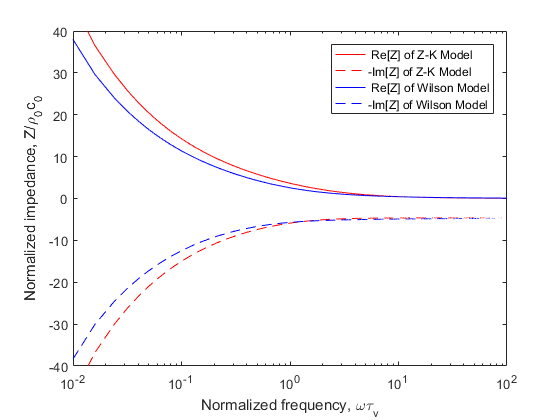
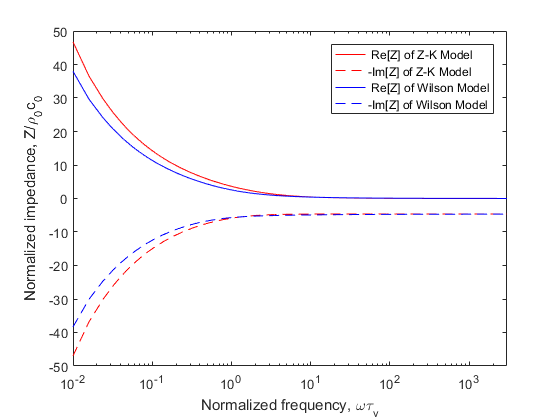
Sources update 2019-02-26

diff --git a/source/_posts/a-time-domain-finite-volume-method-approach-for-the-simulation-of-sound-propagation-in-porous-half-space-medium.md b/source/_posts/a-time-domain-finite-volume-method-approach-for-the-simulation-of-sound-propagation-in-porous-half-space-medium.md
@@ -8,9 +8,9 @@ A time-domain finite volume method solver was developed for the simulation of wa
 
 # Introduction
 
-Sound propagation in porous medium is an enduring topics in the file of the acoustic control due to it's cheap and efficiency. They are used in a variety of locations - close to source of noise, in various paths, and sometimes close to receivers.<sup>1</sup> Unlike frequency-domain acoustic simulation which was widely used today, time-domain simulation can provides much more information that help one understand the propagation process of a sound pulse. During the last two decades, the time-domain simulation of the porous media has been a reborn interest with the development of applications like medical imaging or sound crystals require the study of the sound propagation in the porous medium.<sup>2-8</sup> 
+Sound propagation in porous medium is an enduring topics in the file of the acoustic control due to it's cheap and efficiency. They are used in a variety of locations - close to source of noise, in various paths, and sometimes close to receivers.<sup>1</sup> Unlike frequency-domain acoustic simulation which was widely used today, time-domain simulation can provides much more information that help one understand the propagation process of a sound pulse. During the last two decades, the time-domain simulation of the porous media has been a reborn interest with the development of applications like medical imaging or sound crystals require the study of the sound propagation in the porous medium.<sup>2-9</sup> 
 
-Serial time-domain numerical techniques have been developed to study sound propagation in porous medium, Most of them use finite-difference time-domain (FDTD) algorithms.<sup>9-12</sup> But there is one shortcoming that cannot be ignored that FDTD need additional process - such as immersed-boundary (IB) method - to adapt to the simulation of objects with complicated geometry.The finite volume method is widely used in fluid dynamics due to it's strictly  conservative and can be formulated on unstructured meshes.<sup>13</sup> Xuan et al. has developed an acoustic propagation simulator by time-domain finite volume method.<sup>14</sup> In this paper, we extend the algorithm to calculate acoustic propagation in porous medium using the Z-K model.
+Serial time-domain numerical techniques have been developed to study sound propagation in porous medium, Most of them use finite-difference time-domain (FDTD) algorithms.<sup>10-13</sup> But there is one shortcoming that cannot be ignored that FDTD need additional process - such as immersed-boundary (IB) method - to adapt to the simulation of objects with complicated geometry.The finite volume method is widely used in fluid dynamics due to it's strictly  conservative and can be formulated on unstructured meshes.<sup>14</sup> Xuan et al. has developed an acoustic propagation simulator by time-domain finite volume method.<sup>15</sup> In this paper, we extend the algorithm to calculate acoustic propagation in porous medium using the Z-K model.
 
 The paper is organised as follows: Section 2 presents the equations and limitations of  Z-K model in time-domain. The detail schemes of the discretization of equations are described in Section 3. Example calculations and comparison are provided in Section 4. A triangle porous barrier and two sonic crystals are used to test the numerical methods.
 
@@ -21,19 +21,23 @@ The linearized Euler equations are employed for sound propagation in the air med
 Outside the porous medium:
 
 $$
+\begin{array}{lcl}
 \rho{}_0\frac{\partial{}\bm{v}}{\partial{}t}=-\nabla{}p \\
 c_0^2\frac{\partial{}p}{\partial{}t}=-\rho{}_0\nabla{}\cdot{}\bm{v}
+\end{array}
 \tag{1}
 $$
 
-Inside the porous medium:<sup>10</sup>
+Inside the porous medium:<sup>11</sup>
 $$
+\begin{array}{lcl}
 \sigma{}\bm{v}+\frac{k_s\rho{}_0}{\phi{}}\frac{\partial{}\bm{v}}{\partial{}t}=-\nabla{}p \\
 \frac{\phi}{p_0}\frac{\partial{}p}{\partial{}t}=-\nabla{}\cdot{}\bm{v}
+\end{array}
 \tag{2}
 $$
 
-It is well known that the Wilson Model fits well with the empirical parameters of the porous medium acoustic characters. Figs.1-2 compare predictions from the Z-K and Wilson Models for the impedance $Z$ and the phase speed $c=\omega{}Re[\Gamma]$ when low frequency approximate values were used for the parameters of Z-K Model. The results are plotted as a function of the normalized frequency $\omega{}\tau_v$. More details on how the comparisons between the Wilson Model and Z-K Model were made can be found in Ref.10. The parameter values chosen for these comparisons are $\sigma=2000$, $\phi=0.3$, $k_s=1.95$, $c_0=340$, $\rho=1.226$, $N_{Pr}=1, $ and $s_B=1$.
+It is well known that the Wilson Model fits well with the empirical parameters of the porous medium acoustic characters. Figs.1-2 compare predictions from the Z-K and Wilson Models for the impedance $Z$ and the phase speed $c=\omega{}Re[\Gamma]$ when low frequency approximate values were used for the parameters of Z-K Model. The results are plotted as a function of the normalized frequency $\omega{}\tau_v$. More details on how the comparisons between the Wilson Model and Z-K Model were made can be found in Ref.11. The parameter values chosen for these comparisons are $\sigma=2000$, $\phi=0.3$, $k_s=3$, $c_0=340$, $\rho=1.226$, $N_{Pr}=1$, and $s_B=1$.
 
 ![ComparisonNormalizedImpedance](/imgs/ComparisonNormalizedImpedance_L.png)
 
@@ -43,7 +47,7 @@ Fig.1. Normalized impedance prediction from the Z-K Model (low frequency) and Wi
 
 Fig.2. Phase speed predictions from the Z-K Model (low frequency) and Wilson Model. Plotted is the phase speed divided by the phase speed in air, $c_0$.
 
-The impedance of two models are nearly identical, but the phase speed of Z-K Model is too low and separate dramatically with the increase of frequency. If we apply high frequency approximate values of Z-K Model, The continuity equation in Eqs.$(2)$ will be rewritten as
+The impedance of two models are nearly identical, but the phase speed of Z-K Model is too low and separate dramatically with the increase of frequency. If we apply high frequency approximate values of Z-K Model, The continuity equation in $Eqs. 2$ will be rewritten as
 $$
 \frac{\phi}{p_0\gamma}\frac{\partial{}p}{\partial{}t}=-\nabla{}\cdot{}\bm{v}
 \tag{3}
@@ -52,19 +56,71 @@ where $\gamma$ is the ratio of specific heats in air. The impedance and the p
 
 ![ComparisonNormalizedImpedance_H](/imgs/ComparisonNormalizedImpedance_H.png)
 
-Fig.1. Normalized impedance prediction from the Z-K Model (low frequency) and Wilson Model. The negative of the imaginary part is plotted. Calculations are shown as a function of the normalized frequency $\omega{}\tau_v$, where $\tau_v$ is the relaxation time for viscous diffusion in the pores.
+Fig.3. Normalized impedance prediction from the Z-K Model (high frequency) and Wilson Model. The negative of the imaginary part is plotted. Calculations are shown as a function of the normalized frequency $\omega{}\tau_v$, where $\tau_v$ is the relaxation time for viscous diffusion in the pores.
 
 ![ComparisonNormalizedPhaseSpeed_H](/imgs/ComparisonNormalizedPhaseSpeed_H.png)
 
-Fig.2. Phase speed predictions from the Z-K Model (low frequency) and Wilson Model. Plotted is the phase speed divided by the phase speed in air, $c_0$.
+Fig.4. Phase speed predictions from the Z-K Model (high frequency) and Wilson Model. Plotted is the phase speed divided by the phase speed in air, $c_0$.
 
-The impedance of the Z-K Model becomes incorrect when $\omega{}\tau_v\ll1$, but the phase speed fit better with the Wilson Model. 
+The impedance of the Z-K Model becomes incorrect when $\omega{}\tau_v\ll1$, but the phase speed fit better with the Wilson Model. Fig.2 and 4 shows that the phase speed becomes independent of frequency for large $\omega{}\tau_v$, whereas it should actually increase as $\omega^{1/2}$. 
 
 # Numerical schemes
 
+In this section, we consider time-domain numerical implementation of the relaxation model. For the efficiency of calculation，consider simplify the control equation further：Differentiating the continuity equation in $Eqs. 2$ by time, grading the movement equation then one can derive that
+$$
+\begin{cases}
+a\frac{\partial^2p}{\partial{}t^2}+b\frac{\partial{}p}{\partial{}t}=\nabla{}^2p \\
+a=\frac{k_s\rho_0}{\gamma{}p_0},b=\frac{\sigma{}\phi}{p_0}
+\end{cases}
+\tag{4}
+$$
+That is a single variable control equation which means that one need not consider variable coupling and can improve the efficiency of calculate dramatically. There is a high order spatial term $\nabla^2p$ in the control equation. The program use the idea of shape function to solve it (more detail will given later). We apply Vertical-Centered Finite Volume Method (VC-FVM) to discrete $Eq. 4$ and define the sound pressure on the mesh node. We assume a linear distribution (or quadratic linear distribution) of the sound pressure within the mesh cell. The control volume of the VC-FVM is showed in Fig.5 (the black line is the mesh elements and black points is the mesh nodes, the control volume of one example node is surrounded by azure faces) and Fig.6 given the assumption of the sound pressure distribution within the 2-D mesh.
 
+![VC-FVM](/imgs/VC-FVM.png)
+
+Fig.5. Control volume of the vertex-centered finite volume method (a). 2-D triangle cell (b). 3-D tetrahedron cell.
+
+![VC-FVM_VriableDistribution](/imgs/VC-FVM_VriableDistribution.png)
+
+Fig.6. Sound pressure distribution assumed in the 2D mesh, the scale of sound pressure is expressed in height (a). pure triangle cell (b). mixed cell
+
+On any control volume, the integral form of $Eq. 4$ is
+$$
+\int_{\Omega^{cv}}{a\frac{\partial^2p}{\partial{}t^2}d\Omega}+\int_{\Omega^{cv}}{b\frac{\partial{}p}{\partial{}t}d\Omega}=\int_{\Omega^{cv}}{\nabla^2pd\Omega}
+\tag{5}
+$$
+Use low order interpolation for the mass term，assume $\ddot{p}$ and $\dot{p}$ are uniformly distribution in each control volume as is shown in Fig.7. The discretized equation is
+$$
+g_k\frac{\partial^2p}{\partial{}t^2}+c_k\frac{\partial{}p}{\partial{}t}=\sum_{i=1}^{nc}{\int_{\varGamma{}_i}\left(\nabla{}p\cdot\bm{n}\right)d\varGamma}
+\tag{6}
+$$
+In which $g_k=\sum_{i=1}^{nc}{a_iS_i}$, $c_k=\sum_{i=1}^{nc}{b_iS_i}$, and $S_i$ refers to the contribution of the area (2-D) or volume (3-D) to that node by the cell (element).
+
+![VC-FVM_dotPressureDistribution](/imgs/VC-FVM_dotPressureDistribution.png)
+
+Fig.7. The distribution of sound pressure change rate over time which assumed in the 2-D mesh
+
+We use shape function to calculate the grade of the pressure in the cell，the right side of $Eq. 6$ can be rewritten as
+$$
+\sum_{i=1}^{nc}{\int_{\varGamma{}_i}\left(\nabla{}p\cdot\bm{n}\right)d\varGamma}=\sum_{i=1}^{nc}\sum_{j=1}^{ncn}{\left(\frac{\partial{}N_j}{\partial{}x}p_j,\frac{\partial{}N_j}{\partial{}y}p_j\right)}\cdot\int_{\varGamma_i}\bm{n}d\varGamma
+\tag{7}
+$$
+Where, $\frac{\partial{}N_j}{\partial{}x}$ and $\frac{\partial{}N_j}{\partial{}y}$ are the shape function of the cell, the value is dependent on the cell shape.
+
+In practice, we discrete the time term as
+$$
+\begin{array}{lcl}
+\frac{\partial^2p}{\partial{}t^2}=\frac{p^{t+\Delta{}t}-2p^t+p^{t-\Delta{}t}}{\Delta{}t^2}\\
+\frac{\partial{}p}{\partial{}t}=\frac{p^t-p^{t-\Delta{}t}}{\Delta{}t}
+\end{array}
+\tag{8}
+$$
 
 # Simulation results
+
+
+
+![SoundLine](/imgs/SoundLine.jpg)
 
 
 
@@ -78,25 +134,27 @@ The impedance of the Z-K Model becomes incorrect when $\omega{}\tau_v\ll1$, b
 
 [4] Jian, X. Q., et al. "FDTD simulation of nonlinear ultrasonic pulse propagation in ESWL." 2005 IEEE Engineering in Medicine and Biology 27th Annual Conference. IEEE, 2006.
 
-[5] Fellah, Z. E. A., and C. Depollier. “Transient acoustic wave propagation in rigid porous media: A time-domain approach.” The Journal of the Acoustical Society of America 107.2 (2000): 683-688.
+[5] Fukuhara, Keisuke, and Nagayoshi Morita. "FDTD simulation of nonlinear ultrasonic pulse propagation in ESWL using equations including Lagrangian." Electrical Engineering in Japan 169.4 (2009): 29-36.
 
-[6] Miyashita, Toyokatsu, and Chiryu Inoue. "Numerical investigations of transmission and waveguide properties of sonic crystals by finite-difference time-domain method." Japanese Journal of Applied Physics 40.5S (2001): 3488.
+[6] Fellah, Z. E. A., and C. Depollier. “Transient acoustic wave propagation in rigid porous media: A time-domain approach.” The Journal of the Acoustical Society of America 107.2 (2000): 683-688.
 
-[7] Hu, Xinhua, C. T. Chan, and Jian Zi. "Two-dimensional sonic crystals with Helmholtz resonators." Physical Review E 71.5 (2005): 055601.
+[7] Miyashita, Toyokatsu, and Chiryu Inoue. "Numerical investigations of transmission and waveguide properties of sonic crystals by finite-difference time-domain method." Japanese Journal of Applied Physics 40.5S (2001): 3488.
 
-[8] Ke, Guoyi, and Zhongquan Charlie Zheng. "Sound propagation around arrays of rigid and porous cylinders in free space and near a ground boundary." Journal of Sound and Vibration 370 (2016): 43-53.
+[8] Hu, Xinhua, C. T. Chan, and Jian Zi. "Two-dimensional sonic crystals with Helmholtz resonators." Physical Review E 71.5 (2005): 055601.
 
-[9] Salomons, Erik M., Reinhard Blumrich, and Dietrich Heimann. "Eulerian time-domain model for sound propagation over a finite-impedance ground surface. Comparison with frequency-domain models." Acta Acustica united with Acustica 88.4 (2002): 483-492.
+[9] Ke, Guoyi, and Zhongquan Charlie Zheng. "Sound propagation around arrays of rigid and porous cylinders in free space and near a ground boundary." Journal of Sound and Vibration 370 (2016): 43-53.
 
-[10] Wilson, D. Keith, et al. "Time-domain calculations of sound interactions with outdoor ground surfaces." Applied Acoustics 68.2 (2007): 173-200.
+[10] Salomons, Erik M., Reinhard Blumrich, and Dietrich Heimann. "Eulerian time-domain model for sound propagation over a finite-impedance ground surface. Comparison with frequency-domain models." Acta Acustica united with Acustica 88.4 (2002): 483-492.
 
-[11] Van Renterghem, Timothy, Dick Botteldooren, and Kris Verheyen. “Road traffic noise shielding by vegetation belts of limited depth.” Journal of Sound and Vibration 331.10 (2012): 2404-2425.
+[11] Wilson, D. Keith, et al. "Time-domain calculations of sound interactions with outdoor ground surfaces." Applied Acoustics 68.2 (2007): 173-200.
 
-[12] Ke, Guoyi, and Zhongquan Charlie Zheng. "Simulation of sound propagation over porous barriers of arbitrary shapes." The Journal of the Acoustical Society of America 137.1 (2015): 303-309.
+[12] Van Renterghem, Timothy, Dick Botteldooren, and Kris Verheyen. “Road traffic noise shielding by vegetation belts of limited depth.” Journal of Sound and Vibration 331.10 (2012): 2404-2425.
 
-[13] Moukalled, F., L. Mangani, and M. Darwish. "The finite volume method in computational fluid dynamics." An Advanced Introduction with OpenFOAM and Matlab (2016): 3-8.
+[13] Ke, Guoyi, and Zhongquan Charlie Zheng. "Simulation of sound propagation over porous barriers of arbitrary shapes." The Journal of the Acoustical Society of America 137.1 (2015): 303-309.
 
-[14] Xuan, Ling-kuan, et al. "Time domain finite volume method for three-dimensional structural–acoustic coupling analysis." Applied Acoustics 76 (2014): 138-149.
+[14] Moukalled, F., L. Mangani, and M. Darwish. "The finite volume method in computational fluid dynamics." An Advanced Introduction with OpenFOAM and Matlab (2016): 3-8.
+
+[15] Xuan, Ling-kuan, et al. "Time domain finite volume method for three-dimensional structural–acoustic coupling analysis." Applied Acoustics 76 (2014): 138-149.
 
 
 
